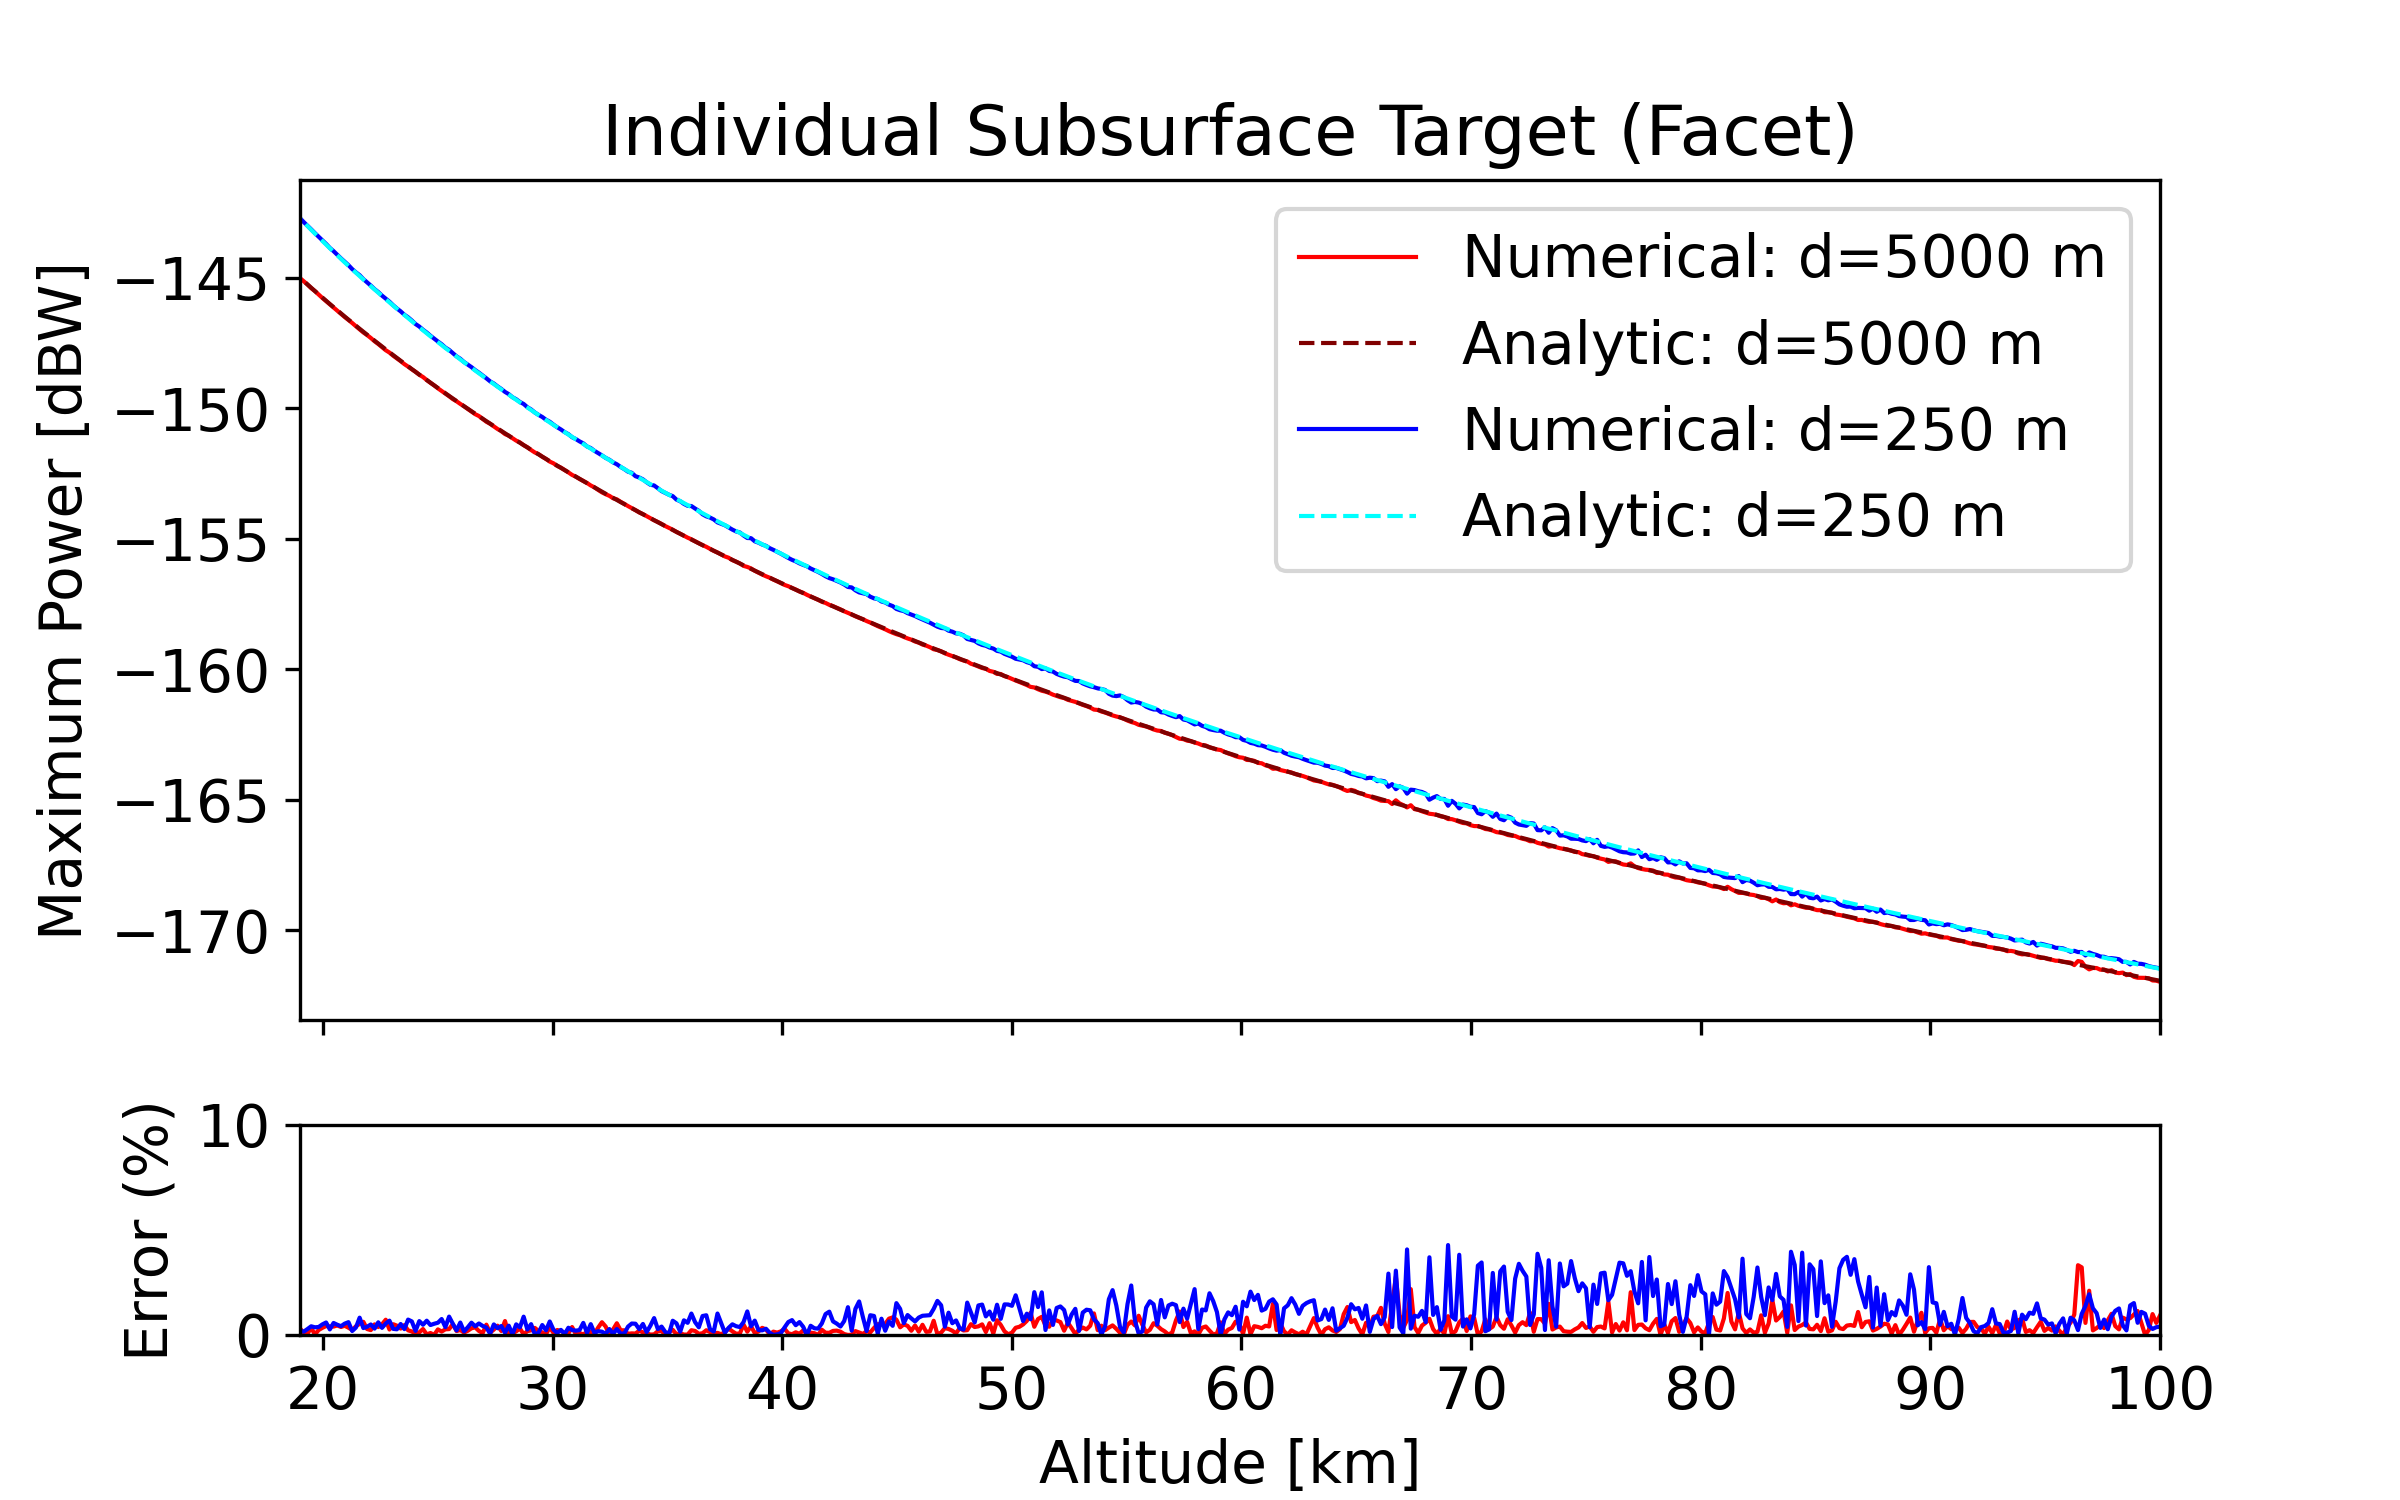
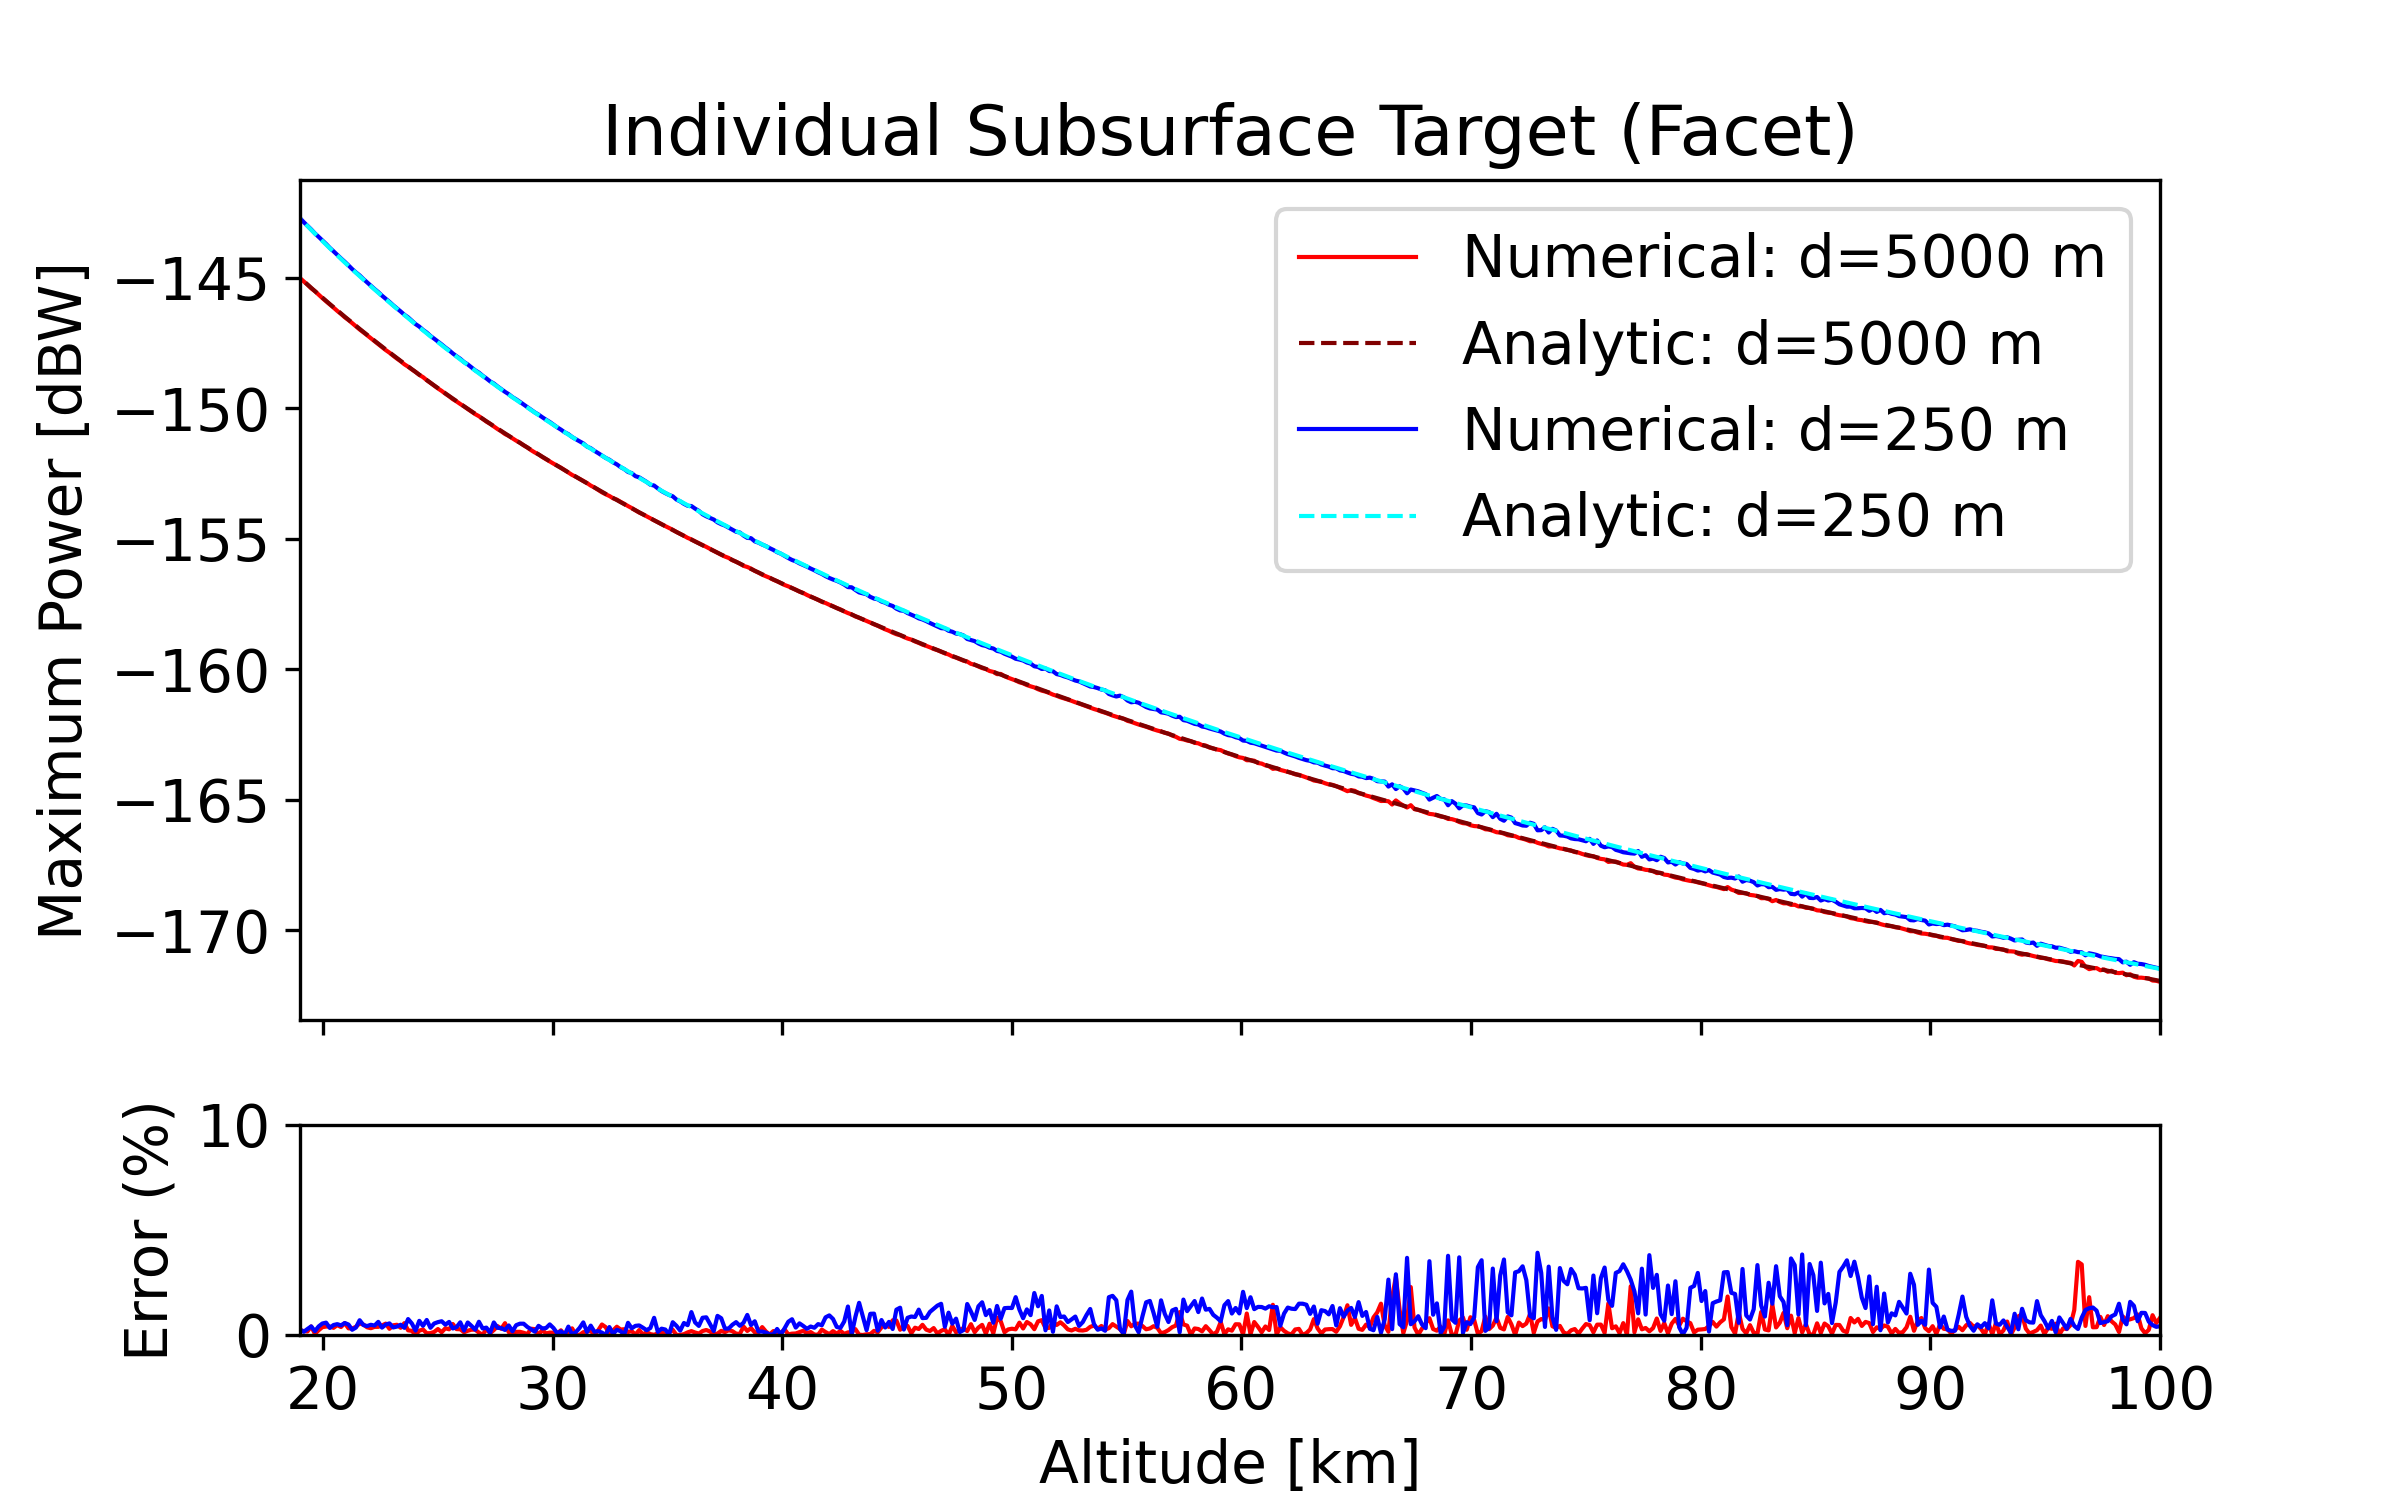
Made some phase error plots for subsurface targets

Changed region(s): [[0.1562, 0.828, 0.9062, 0.8893]]

diff --git a/examples/UNIT_TESTS/subsurface_target/code/output.py b/examples/UNIT_TESTS/subsurface_target/code/output.py
@@ -28,6 +28,12 @@ def get_analytic(params, h, d):
 
     return P_r
 
+def get_target_phase(params, h, d):
+
+    rng = h + np.sqrt(params["eps_2"]) * d
+    cmplx = np.exp(((-4j * np.pi) / params['lam']) * rng)
+    return np.degrees(np.angle(cmplx))
+
 plt.rcParams.update({'font.size': 14})
 
 fig, ax = plt.subplots(2, figsize=(8, 5), sharex=True, gridspec_kw={'height_ratios': [4, 1]})
@@ -50,6 +56,10 @@ for d, c, cont in zip(depths, colors, contrast):
 
     P_num = np.max(np.abs(rdrgrm)**2, axis=0)
 
+    # find the phase of the maximum signal for each trace
+    argmax = np.argmax(np.abs(rdrgrm), axis=0)
+    phse   = np.degrees(np.angle(rdrgrm[argmax, range(rdrgrm.shape[1])]))
+
     error = np.abs(P_num - P_r) / P_r * 100
 
     ax[0].plot(h/1e3, uc.lin_to_db(P_num), label=f"Numerical: d={d} m", color=c, linewidth=1)
@@ -68,4 +78,43 @@ ax[1].set_ylim(0, 10)
 plt.xlim(h[-1]/1e3, h[0]/1e3)
 plt.savefig("figures/SubsurfaceFacet.png", dpi=300)
 
+plt.show()
+
+fig, ax = plt.subplots(figsize=(8, 5))
+
+ax.set_xlim(h[-1]/1e3, h[0]/1e3)
+
+for d, c, cont in zip(depths, colors, contrast):
+
+    if d != 5000 and d != 250:
+        continue
+
+    ana_phse = get_target_phase(params, h, d)
+
+    # load radargram
+    rdrgrm = oh.compile_rdrgrm(f"rdrgrm/{d:04d}", params)
+
+    # find the phase of the maximum signal for each trace
+    argmax = np.argmax(np.abs(rdrgrm), axis=0)
+    phse   = np.degrees(np.angle(rdrgrm[argmax, range(rdrgrm.shape[1])]))
+
+    phase_error = phse - ana_phse
+
+    # make sure phase error is between -180 and 180
+    phase_error = (phase_error + 180) % 360 - 180
+
+    # mean phase error
+    mean_error = np.mean(np.abs(phase_error))
+
+    # line showing mean error with text at end
+    ax.axhline(mean_error, color=c, alpha=0.5, linestyle="--")
+    ax.text(h[0]/1e3 + 1, mean_error, f"{mean_error:.2f}\ndeg", color=c, alpha=0.7, fontsize=12, verticalalignment="center")
+
+    ax.plot(h/1e3, phase_error, label=f"Target depth: {d} m", color=c)
+
+ax.set_ylabel("Phase Error (deg)")
+ax.set_xlabel("Altitude [km]")
+ax.legend()
+ax.set_title("Phase Error of Subsurface Facet")
+plt.savefig("figures/SubsurfaceFacet_PhaseError.png", dpi=300)
 plt.show()

diff --git a/examples/UNIT_TESTS/subsurface_layer/code/output.py b/examples/UNIT_TESTS/subsurface_layer/code/output.py
@@ -7,7 +7,7 @@ sys.path.append("../../../src/PYTHON")
 import output_handling as oh
 import unit_convs      as uc
 
-h = np.linspace(30e3, 20e3, 10)
+h = np.linspace(30e3, 20e3, 25)
 
 def get_analytic(params, h, d):
 
@@ -74,32 +74,19 @@ for i in range(rdrgrm.shape[1]):
     sig = arr[:, 0] + 1j * arr[:, 1]
     idx = np.argmax(np.abs(sig))
     angle = np.degrees(np.angle(sig[idx]))
-    #a_o = np.degrees(np.angle(sig[idx]*-1))
-    a_o = (angle + 360) % 360 - 180
     print(f"TRC {i}: \n\
           Max norm signal is {sig[idx]/np.abs(sig[idx])}\n\
-          With angle {angle:.2f} ({a_o:.2f}) degrees\n\
+          With angle {angle:.2f} degrees\n\
           At altitude: {h[i]} m\n")
     a_ss.append(angle)
-    a_os.append(a_o)
-    """
-    fig, ax = plt.subplots(2)
-    xs = range(len(sig))
-    ax[0].plot(xs, np.real(sig), color="red", label="real E")
-    ax[0].plot(xs, np.imag(sig), color="blue", label="imag E")
-    ax[1].plot(xs, np.degrees(np.angle(sig)), color="purple", label="phase E")
-    ax[1].set_ylim(-180, 180)
-    plt.show()
-    """
+
 
 fig, ax = plt.subplots(2)
 ana_phs = get_target_phase(params, h, d)
-ax[0].plot(h/1e3, a_ss, label="True Sim Phase")
-ax[0].plot(h/1e3, a_os, label="Corrected Sim Phase")
+ax[0].plot(h/1e3, a_ss, label="Sim Phase")
 ax[0].plot(h/1e3, ana_phs, label="Analytic Phase")
 ax[0].legend()
-ax[1].plot(h/1e3, a_ss - ana_phs, label="True Sim Phase - Analytic Phase")
-ax[1].plot(h/1e3, a_os - ana_phs, label="Corrected Sim Phase - Analytic Phase")
+ax[1].plot(h/1e3, a_ss - ana_phs, label="Sim Phase - Analytic Phase")
 ax[1].legend()
 plt.show()
     

diff --git a/examples/UNIT_TESTS/subsurface_layer/code/params.py b/examples/UNIT_TESTS/subsurface_layer/code/params.py
@@ -30,7 +30,7 @@ recpar = {
 }
 
 sourcepar = {
-    "ns": 10,               # source count            [.]
+    "ns": 25,               # source count            [.]
     "source_path_file": "inputs/source_path.txt",
     "aperture": 70,
 }